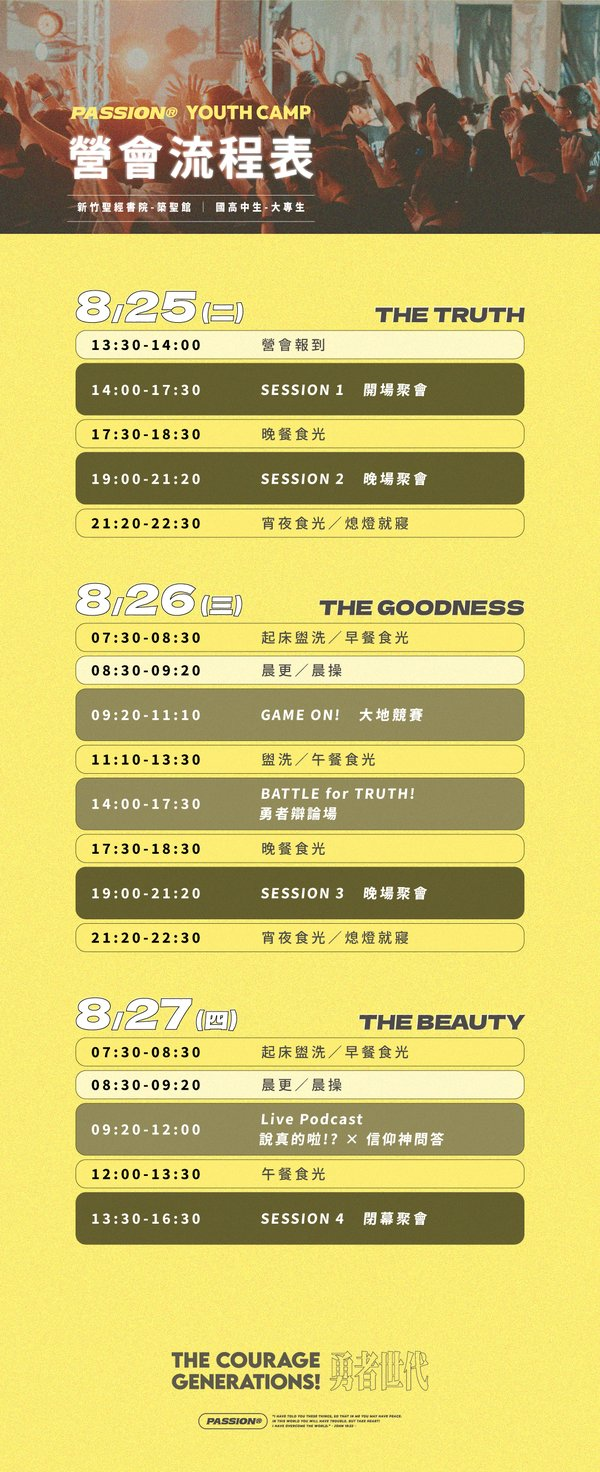
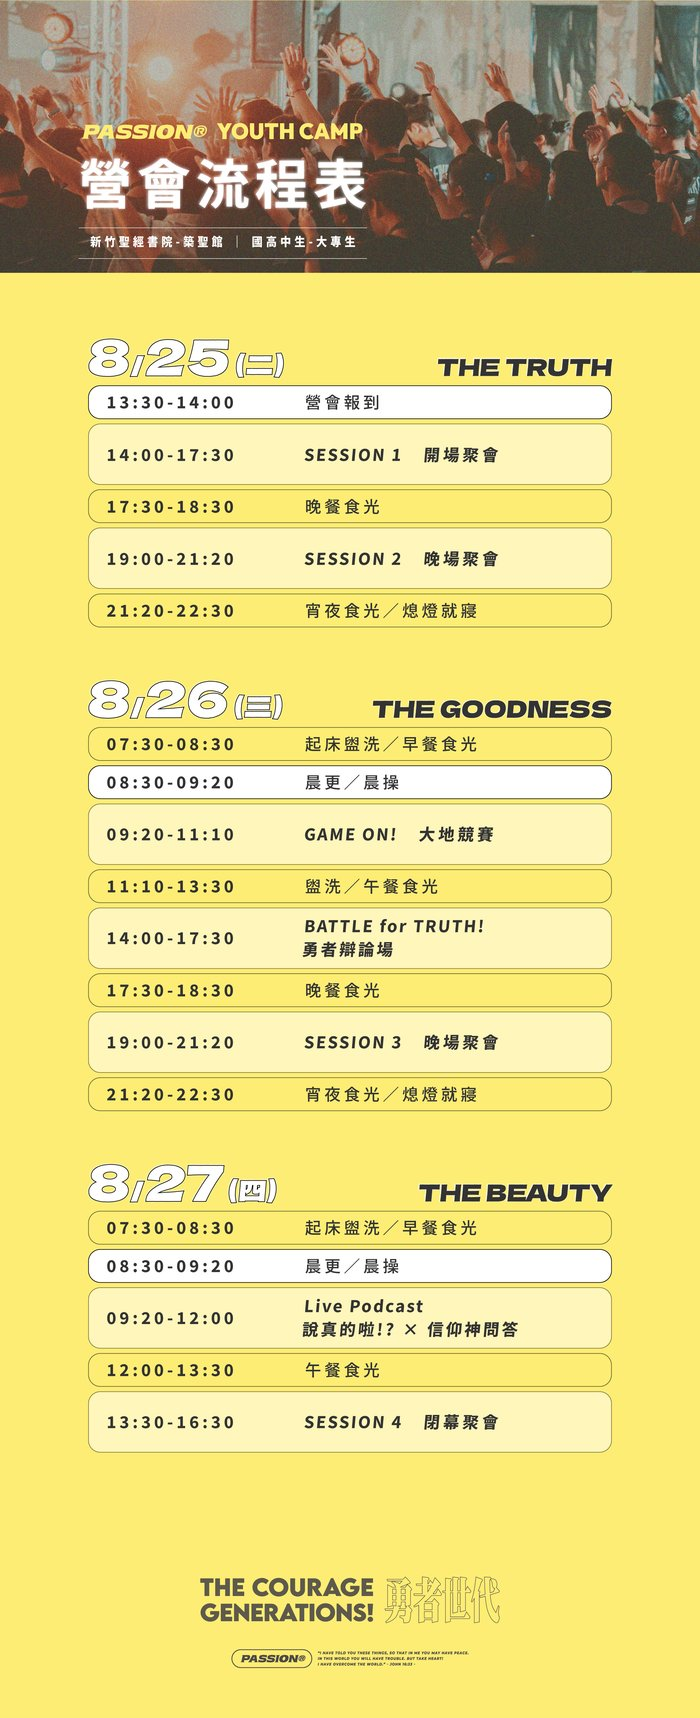
fix(camp): 開場流程文字左右溢出修正、聚會流程表換圖、傳送圖示
開場流程（camp + conference）多處用 flex-col items-center 排版，這個
組合會讓文字元素照內容需要的寬度算大小、不是照容器實際寬度，內容一長
就整行不換行、左右對稱溢出畫面。掃過整個開場流程加上 w-full：勇者
測驗題目標題、勇者屬性結果頁（描述／特質／小提醒）、分區介紹、營會
守則標題、歡迎頁標題（camp + conference）、CONF 工作坊標題、經文
禱告文字、存圖卡片裡的經文。

CampCountdownCard 彈窗補上跟 CONF 那邊同樣的 overflow-hidden／grid
壓縮修法（Zion 那邊發現、留給 camp 這邊處理的已知問題）：改用
flex flex-col，圖片外層加 shrink-0 + overflow-hidden 裁圓角，內容
過長時容器本身捲動，不會壓扁圖片。

聚會流程表換新版圖片；彈窗改成圖片直接貼齊填滿畫框（原本置頂的
關閉鍵改成浮在圖片上面，不再佔一整排空間）。

「分享」「傳送給官方 IG」兩個按鈕都加上圖示（活動組提供的素材），
用 CSS mask 套 currentColor，camp／conference 深淺底都自動對到正確
顏色。

diff --git a/components/camp-countdown-card.tsx b/components/camp-countdown-card.tsx
@@ -36,7 +36,7 @@ export function CampCountdownCard() {
       <Dialog open={open} onOpenChange={setOpen}>
         <DialogContent
           showCloseButton={false}
-          className="camp-theme max-w-[calc(100%-2rem)] gap-0 overflow-hidden rounded-3xl border-none bg-card p-0 sm:max-w-md"
+          className="camp-theme flex max-w-[calc(100%-2rem)] flex-col gap-0 rounded-3xl border-none bg-card p-0 sm:max-w-md"
         >
           <DialogTitle className="sr-only">營會資訊</DialogTitle>
           <DialogClose className="absolute top-4 right-4 z-10 text-white/80 hover:text-white">
@@ -44,8 +44,11 @@ export function CampCountdownCard() {
             <span className="sr-only">關閉</span>
           </DialogClose>
 
-          {/* 還沒有真的營會視覺照片，先用色塊佔位 */}
-          <div className="aspect-video w-full bg-slate-400" />
+          {/* 還沒有真的營會視覺照片，先用色塊佔位。overflow-hidden 放在這裡（不是
+              外層 DialogContent）只裁圖片本身的圓角，外層才能保留 overflow-y-auto
+              讓內容過長時可以捲動，不會在小螢幕手機上被切掉或壓扁變形
+              （跟 conference-mission-home.tsx 同一個修法）。 */}
+          <div className="aspect-video w-full shrink-0 overflow-hidden rounded-t-3xl bg-slate-400" />
 
           <div className="flex flex-col gap-2 p-6">
             <p className="text-sm text-muted-foreground">營會資訊</p>

diff --git a/components/camp-sidebar.tsx b/components/camp-sidebar.tsx
@@ -85,14 +85,18 @@ export function CampSidebar() {
           className="camp-theme max-h-[85vh] max-w-[calc(100%-2rem)] gap-0 overflow-y-auto rounded-3xl border-none bg-transparent p-0 sm:max-w-sm"
         >
           <DialogTitle className="sr-only">{activeItem?.label ?? ""}</DialogTitle>
-          <div className="sticky top-0 z-10 flex justify-end p-2">
-            <DialogClose className="rounded-full bg-black/50 p-1 text-white/90 backdrop-blur-sm hover:text-white">
-              <X className="size-5" />
-              <span className="sr-only">關閉</span>
-            </DialogClose>
-          </div>
+          <DialogClose className="absolute top-2 right-2 z-10 rounded-full bg-black/50 p-1 text-white/90 backdrop-blur-sm hover:text-white">
+            <X className="size-5" />
+            <span className="sr-only">關閉</span>
+          </DialogClose>
           {activeItem?.type === "image" && (
-            <Image src={activeItem.imageSrc} alt={activeItem.label} width={600} height={1472} className="h-auto w-full" />
+            <Image
+              src={activeItem.imageSrc}
+              alt={activeItem.label}
+              width={700}
+              height={1718}
+              className="block h-auto w-full"
+            />
           )}
           {activeItem?.type === "content" && activeItem.key === "lodging" && (
             <div className="px-2 pb-2">

diff --git a/components/opening/camp-hero-details.tsx b/components/opening/camp-hero-details.tsx
@@ -18,7 +18,7 @@ export function CampHeroDetails({
   const labelClass = tone === "dark" ? "text-white/60" : "text-muted-foreground"
 
   return (
-    <div className={`flex flex-col items-center gap-4 text-center ${bodyClass}`}>
+    <div className={`flex w-full flex-col items-center gap-4 text-center ${bodyClass}`}>
       <Image
         src={src}
         alt={result.name}
@@ -27,12 +27,12 @@ export function CampHeroDetails({
         draggable={false}
         className="w-full max-w-40 self-center rounded-2xl"
       />
-      <p>{result.description}</p>
-      <div>
+      <p className="w-full">{result.description}</p>
+      <div className="w-full">
         <p className={`text-sm font-bold ${labelClass}`}>勇者特質</p>
         <p className="mt-1">{result.traits.join("、")}</p>
       </div>
-      <div>
+      <div className="w-full">
         <p className={`text-sm font-bold ${labelClass}`}>小提醒</p>
         <p className="mt-1">{result.reminder}</p>
       </div>

diff --git a/components/send-icon.tsx b/components/send-icon.tsx
@@ -1,0 +1,23 @@
+// 傳送圖示是純黑色實心 PNG（見 public/images/send-icon.png），用 CSS mask
+// 把它當形狀模板套上 currentColor，跟著文字顏色走——「傳送給官方 IG」按鈕在
+// camp（淺色底）跟 conference（深色底）都有用到，不用另外做兩份不同顏色的素材。
+export function SendIcon({ className }: { className?: string }) {
+  return (
+    <span
+      aria-hidden
+      className={className}
+      style={{
+        display: "inline-block",
+        backgroundColor: "currentColor",
+        WebkitMaskImage: "url(/images/send-icon.png)",
+        maskImage: "url(/images/send-icon.png)",
+        WebkitMaskSize: "contain",
+        maskSize: "contain",
+        WebkitMaskRepeat: "no-repeat",
+        maskRepeat: "no-repeat",
+        WebkitMaskPosition: "center",
+        maskPosition: "center",
+      }}
+    />
+  )
+}

diff --git a/components/opening/camp/camp-rules-reveal.tsx b/components/opening/camp/camp-rules-reveal.tsx
@@ -62,7 +62,7 @@ export function CampRulesTitleScreen({ onAdvance }: { onAdvance: () => void }) {
       <PassionLogo />
       <CourageGenerationsTagline className="w-56 sm:w-64" />
       <h1
-        className={`${mantouSans.className} text-[clamp(2rem,9vw,4.5rem)]`}
+        className={`${mantouSans.className} w-full text-[clamp(2rem,9vw,4.5rem)]`}
         style={HEADING_STROKE_STYLE}
       >
         {campRulesTitle}
@@ -86,7 +86,7 @@ export function CampRuleContentScreen({
     <div className="relative flex h-full flex-col items-center gap-6 px-6 pt-[24vh] text-center">
       <PassionLogo />
       <h2
-        className={`${mantouSans.className} text-[clamp(1.75rem,7vw,3rem)]`}
+        className={`${mantouSans.className} w-full text-[clamp(1.75rem,7vw,3rem)]`}
         style={HEADING_STROKE_STYLE}
       >
         {screen.label}

diff --git a/components/opening/camp/camp-zones-reveal.tsx b/components/opening/camp/camp-zones-reveal.tsx
@@ -6,10 +6,10 @@ export function CampZonesGrid({ zones }: { zones: CampZoneScreen[] }) {
   return (
     <div className="flex w-full max-w-sm flex-col gap-8">
       {zones.map((zone) => (
-        <div key={zone.title} className="flex flex-col items-center gap-3 text-center">
+        <div key={zone.title} className="flex w-full flex-col items-center gap-3 text-center">
           <Image src={zone.icon} alt={zone.title} width={120} height={120} className="size-20 rounded-full" />
-          <h2 className={`${mantouSans.className} text-xl sm:text-2xl`}>{zone.title}</h2>
-          <p className="text-white/80">{zone.body}</p>
+          <h2 className={`${mantouSans.className} w-full text-xl sm:text-2xl`}>{zone.title}</h2>
+          <p className="w-full text-white/80">{zone.body}</p>
         </div>
       ))}
     </div>

diff --git a/components/meeting-notes.tsx b/components/meeting-notes.tsx
@@ -3,6 +3,7 @@
 import { useState } from "react"
 import { Button } from "@/components/ui/button"
 import { ShareIcon } from "@/components/share-icon"
+import { SendIcon } from "@/components/send-icon"
 
 // 心得筆記跟分享目前都還沒有後端可以存，先做成畫面上可以打字、
 // 「分享」呼叫瀏覽器原生分享（沒有就退回複製到剪貼簿），
@@ -36,7 +37,8 @@ export function MeetingNotes() {
           <ShareIcon className="size-4" />
           {copied ? "已複製" : "分享"}
         </Button>
-        <Button variant="outline" className="flex-1" disabled>
+        <Button variant="outline" className="flex-1 gap-2" disabled>
+          <SendIcon className="size-4" />
           傳送給官方 IG
         </Button>
       </div>

diff --git a/components/opening/export-card.tsx b/components/opening/export-card.tsx
@@ -23,7 +23,7 @@ export const ExportCard = forwardRef<HTMLDivElement, ExportCardProps>(function E
       </div>
       <div className="relative flex h-full flex-col items-center justify-center gap-4 p-12 text-center text-white">
         <p className="text-sm tracking-[0.2em] text-white/70">{label}</p>
-        <p className="text-2xl leading-relaxed">{verse}</p>
+        <p className="w-full text-2xl leading-relaxed">{verse}</p>
         {verseRef && <p className="text-base text-white/70">（{verseRef}）</p>}
       </div>
     </div>

diff --git a/components/opening/camp/camp-quiz-step.tsx b/components/opening/camp/camp-quiz-step.tsx
@@ -28,7 +28,7 @@ function QuizContent({ onStepChange }: { onStepChange: (step: CampStep) => void 
       <p className="text-sm tracking-[0.2em] text-white/60">
         第 {index + 1} 題 / 共 {campQuizQuestions.length} 題
       </p>
-      <h2 className="font-heading text-2xl font-bold sm:text-3xl">{question.question}</h2>
+      <h2 className="font-heading w-full text-2xl font-bold sm:text-3xl">{question.question}</h2>
 
       <div className="grid w-full max-w-sm grid-cols-2 gap-4">
         {question.options.map((option) => (

diff --git a/components/opening/conference/conference-verse-prayer-step.tsx b/components/opening/conference/conference-verse-prayer-step.tsx
@@ -43,7 +43,7 @@ function VersePrayerContent({
   return (
     <div className="flex min-h-full flex-col items-center justify-center gap-8 px-6 py-10 text-center">
       <p className="text-sm tracking-[0.2em] text-white/60">{label}</p>
-      <p className="max-w-md text-xl leading-loose sm:text-2xl">{bodyText}</p>
+      <p className="w-full max-w-md text-xl leading-loose sm:text-2xl">{bodyText}</p>
       {isVersePage && <p className="text-base text-white/70">（{content.verseRef}）</p>}
 
       <div className="flex gap-3">

diff --git a/components/opening/conference/conference-welcome-step.tsx b/components/opening/conference/conference-welcome-step.tsx
@@ -19,7 +19,7 @@ function WelcomeContent() {
   // 使用者看起來就像文字最上面被切掉了。
   return (
     <div className="flex min-h-full flex-col items-center justify-center gap-8 px-6 py-8 text-center">
-      <div>
+      <div className="w-full">
         <p className="text-sm tracking-[0.2em] text-white/60">旅程的開始</p>
         <h1 className="font-heading mt-3 text-3xl font-bold sm:text-4xl">歡迎來到 PASSION 系統</h1>
       </div>

diff --git a/components/opening/conference/conference-onboarding-step.tsx b/components/opening/conference/conference-onboarding-step.tsx
@@ -25,7 +25,7 @@ function OnboardingContent() {
       <p className="text-sm tracking-[0.2em] text-white/60">
         {index + 1} / {conferenceWorkshops.length}
       </p>
-      <h2 className="font-heading text-2xl font-bold sm:text-3xl">
+      <h2 className="font-heading w-full text-2xl font-bold sm:text-3xl">
         {workshop.topic || workshop.speaker}
       </h2>
       {workshop.topic && <p className="max-w-sm text-white/80">{workshop.speaker}</p>}
